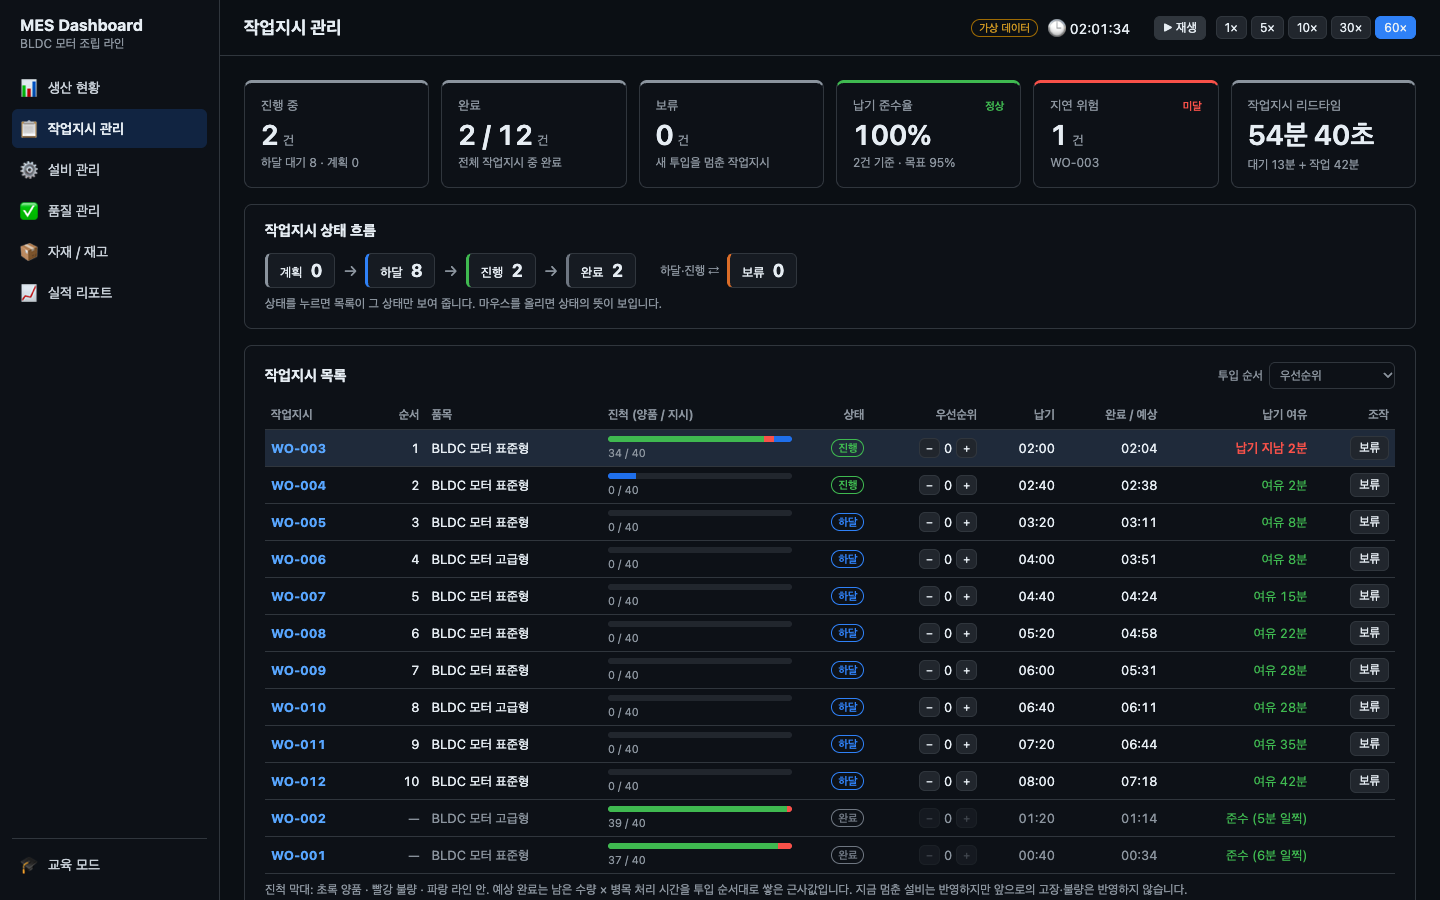
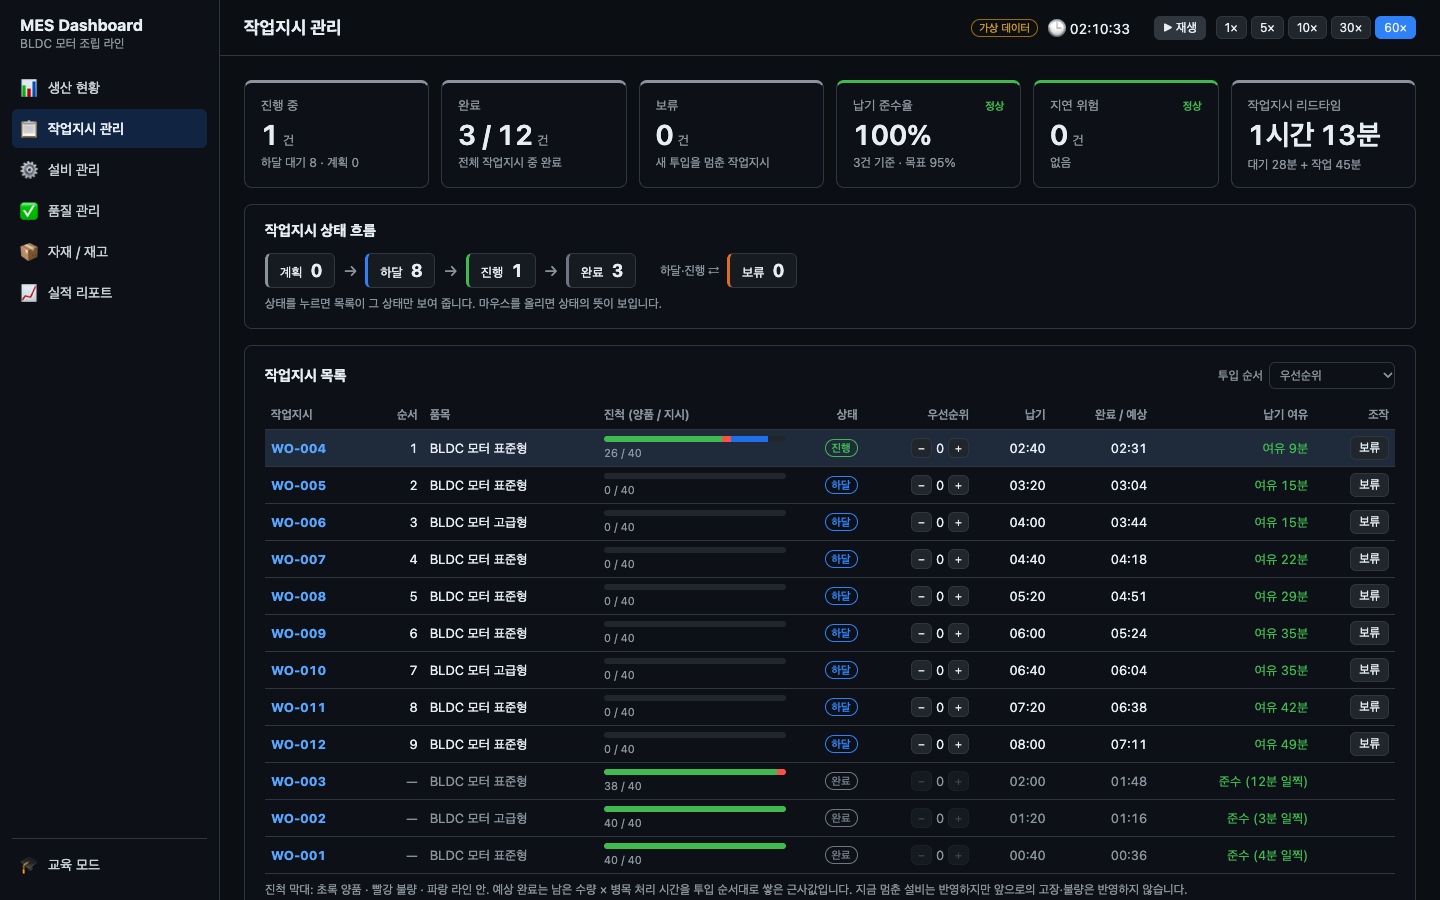
docs: 4단계 결과를 README와 계획서에 기록, 작업지시 관리 스크린샷 갱신

diff --git a/docs/plans/phase4-quality-management.md b/docs/plans/phase4-quality-management.md
@@ -285,18 +285,25 @@ export interface MaterialLot {
 
 ## 10. 완료 기준
 
-- [ ] 사이드바의 품질 관리를 누르면 KPI 카드, 품질 추이, 불량 파레토, 공정별 수율, 제품 이력 조회, 자재 로트 추적, 개념 패널이 보인다
-- [ ] 직행률이 최종 양품률보다 낮고, 그 차이가 재작업으로 살린 제품 수와 맞는다
-- [ ] RTY가 공정별 1차 합격률의 곱과 같다
-- [ ] 60배속으로 돌리면 CNC 마모가 쌓이는 구간에 마모 불량(치수 불량)이 늘고, 수리 뒤 줄어드는 것이 추이 차트에 보인다
-- [ ] 불량품을 골라 역추적하면 공정별 설비 · 시각 · 불량 유형 · 자재 로트가 보이고, 로트를 누르면 그 로트가 들어간 제품 · 작업지시가 보인다
-- [ ] 자재 로트 남은 수량의 합이 재고와 항상 같다(테스트)
-- [ ] 교육 모드 S1 ~ S3 시나리오 테스트가 통과하고, 바뀐 수치를 README와 해설에 반영했다
-- [ ] `npm test`, `npm run lint`, `npm run build`(타입 검사 포함) 통과
+- [x] 사이드바의 품질 관리를 누르면 KPI 카드, 품질 추이, 불량 파레토, 공정별 수율, 제품 이력 조회, 자재 로트 추적, 개념 패널이 보인다
+- [x] 직행률이 최종 양품률보다 낮고, 그 차이가 재작업으로 살린 제품 수와 맞는다
+- [x] RTY가 공정별 1차 합격률의 곱과 같다
+- [x] 60배속으로 돌리면 CNC 마모가 쌓이는 구간에 마모 불량(치수 불량)이 늘고, 수리 뒤 줄어드는 것이 추이 차트에 보인다
+- [x] 불량품을 골라 역추적하면 공정별 설비 · 시각 · 불량 유형 · 자재 로트가 보이고, 로트를 누르면 그 로트가 들어간 제품 · 작업지시가 보인다
+- [x] 자재 로트 남은 수량의 합이 재고와 항상 같다(테스트)
+- [x] 교육 모드 S1 ~ S3 시나리오 테스트가 통과하고, 바뀐 수치를 README와 해설에 반영했다
+- [x] `npm test`, `npm run lint`, `npm run build`(타입 검사 포함) 통과
 
 ## 11. 구현하면서 바뀐 점
 
-(구현 후 기록)
+- **생산 결과 변경 폭**: 재작업으로 자유 체험 8시간 기준 폐기 30 → 19개, 양품 450 → 461대. S2 조치 없음 187 → 190대 · 모범 조치 200 → 204대, S3 75 → 74대 · 115 → 116대, S1은 그대로다. 불량 유형 코드와 자재 로트만 넣었을 때는 모든 시나리오 결과가 이전과 완전히 같음을 스냅숏 비교로 확인한 뒤 재작업을 넣었다.
+- **자유 체험 첫 고장 1:34 → 2:01, 납기 지연 사라짐**: 재작업이 CNC 가동 시간과 난수 순서를 바꿔 첫 고장 시각이 달라졌다(8시간 고장 3 → 2회). 3단계에서 보이던 WO-003 지연(약 4분)도 사라져 납기 준수율이 12/12가 됐다. seed 100개를 돌려 보니 첫 고장은 1.6 ~ 2.5시간(중앙값 2.1시간)이었고 지연 작업지시는 하나도 없었다. 원래 지연은 고장이 일찍 난 seed에서만 나온 장면이라 seed를 고르지 않고, README · 안내 문구를 바뀐 사실대로 고쳤다(라인이 계획보다 앞서 고장을 흡수한다). 작업지시 관리 스크린샷도 다시 찍었다.
+- **마모 불량 빈도**: 3시간 테스트에서 마모 불량이 0건인 경우가 있어, 엔진 테스트는 마모가 큰 설비를 직접 만들어 확인하게 했다. 자유 체험 8시간 기준 마모 불량은 seed에 따라 9 ~ 18건으로 추이 차트에서 충분히 보인다.
+- **포장 마모 유형 추가**: 포장기도 마모 정보가 있어 마모 불량이 날 수 있으므로 "포장 밀봉 불량(재작업)"을 더했다(계획 13종 → 14종). 기준정보 검증이 빠진 유형을 잡아냈다.
+- **차트 축 오류로 시뮬레이션이 멈춤**: 직행률 축 최솟값을 함수로 넘겼더니, 첫 재작업 뒤 ECharts 축 계산 검사에서 오류가 나고 화면 갱신 중 예외가 시뮬레이션 루프까지 멈췄다. 최솟값을 미리 계산해 반올림한 숫자로 넘기도록 고쳤다.
+- **역추적 ↔ 정추적 연결**: 제품 이력의 로트를 누르면 정추적으로, 로트 사용처의 제품을 누르면 역추적으로 넘어간다. 제품 번호 직접 조회(숫자만 입력 가능)를 더했다.
+- **교육 모드 제품 상세**: 재작업하면 같은 공정이 두 번 기록되어 진행도가 틀어지므로, 양품으로 마친 공정 수로 세게 고쳤다. 불량 유형과 재작업 표시를 더했다.
+- **번들**: 품질 관리 페이지는 지연 로딩(약 23KB, gzip 9KB). 첫 화면 크기는 3단계와 같다(약 757KB).
 
 ## 12. 이번 단계에서 하지 않는 것
 
